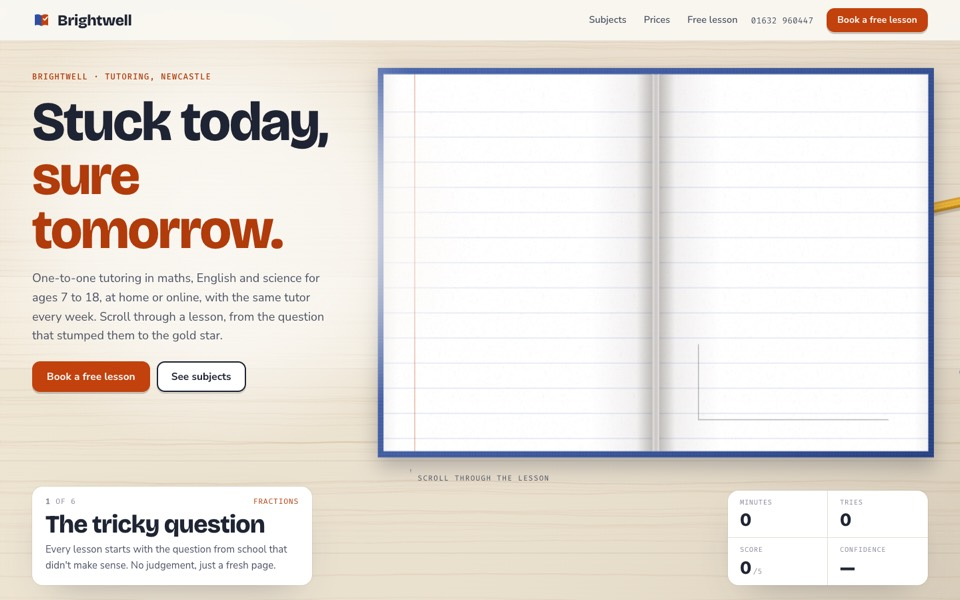
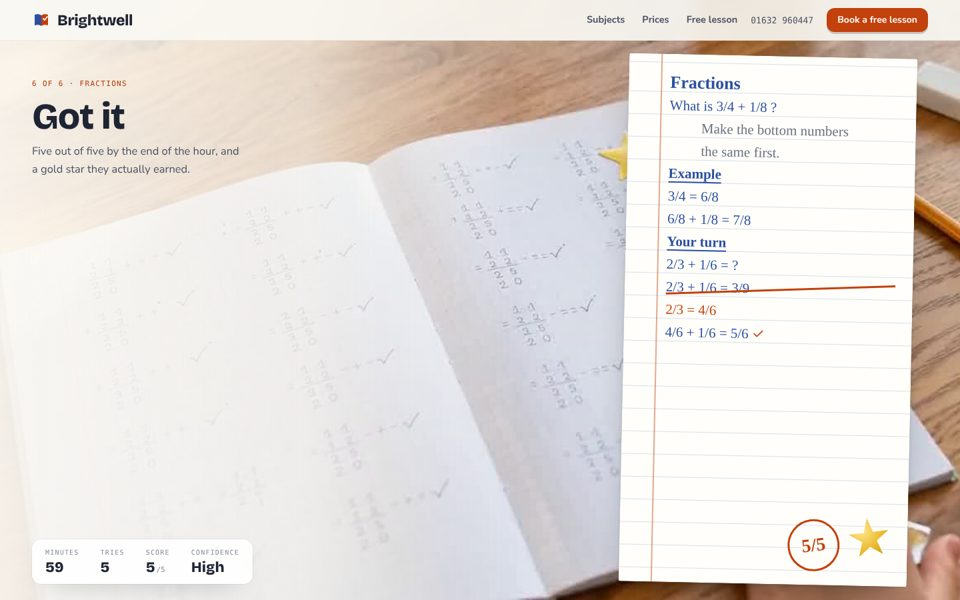
Primer redesigned v5: the real lesson beside a page of the exercise book written as it goes, the slip crossed out in red, the mark and a gold star
Claude-Session: https://claude.ai/code/session_0133g3z4wqTvWj4LLKkZ92ba

diff --git a/design-packages/design/primer/template.html b/design-packages/design/primer/template.html
@@ -1,12 +1,13 @@
 <!doctype html><html><head><meta charset=utf8><meta name=viewport content="width=device-width,initial-scale=1,viewport-fit=cover"><style>:root{color-scheme:light;box-sizing:border-box;padding-top:env(safe-area-inset-top,0px);padding-bottom:env(safe-area-inset-bottom,0px)}html{scroll-padding-top:env(safe-area-inset-top,0px)}body{margin:0;padding:0;font:14px -apple-system,BlinkMacSystemFont,sans-serif;background:#fff;color:#000}img{max-width:100%}[hidden]:not([hidden=until-found i]){display:none!important}</style></head><body>
 <title>{{business.name}}</title>
+<meta name="description" content="{{hero.lede|attr}}">
 <link rel="preconnect" href="https://fonts.googleapis.com">
 <link rel="preconnect" href="https://fonts.gstatic.com" crossorigin>
 <link href="https://fonts.googleapis.com/css2?family=Bricolage+Grotesque:opsz,wght@12..96,600;12..96,800&family=Nunito+Sans:opsz,wght@6..12,400;6..12,600;6..12,700&family=Kalam:wght@400;700&family=Fira+Code:wght@400;500&display=swap" rel="stylesheet">
 <style>
-/* Layout: a tutor or small school. One pinned exercise book where a topic is learnt as you scroll (the question that
-   stumped them, the idea drawn out, a worked example, their own try with a slip, the fix, then the mark and a gold
-   star), with a progress chart filling; then what a parent needs: subjects and levels, a price for lessons, and a free
+/* Layout: a tutor or small school. The real lesson plays as you scroll (the tutor's own video or photos) beside a
+   page of the exercise book that gets written as it goes: the question, the idea in pencil, the worked example, their
+   try with its slip crossed out in red pen, the fix, then the mark and a gold star; then what a parent needs: subjects and levels, a price for lessons, and a free
    first lesson to book. */
 :root{
   color-scheme:light;
@@ -58,46 +59,74 @@ p{margin:0}
 @media (max-width:980px){.nav ul{display:none}.nav .call{margin-left:auto}}
 @media (max-width:560px){.nav .call{display:none}.nav .btn{margin-left:auto}.brand{font-size:21px}}
 
-/* hero: the exercise book */
+/* hero: the real lesson, and a page of the exercise book written as it goes */
 .hero{position:relative;height:560vh}
 .stage{position:sticky;top:0;height:100vh;height:100svh;overflow:hidden;background:var(--paper)}
-#book{position:absolute;inset:0;width:100%;height:100%;display:block}
-.hero-copy{position:absolute;left:var(--gut);top:calc(env(safe-area-inset-top,0px) + 108px);max-width:520px;z-index:3;display:grid;gap:18px;will-change:transform,opacity}
-.hero-copy::before{content:"";position:absolute;z-index:-1;inset:-110px -150px -90px calc(-1 * var(--gut) - 60px);background:radial-gradient(closest-side,rgba(250,248,243,.97),rgba(250,248,243,.82) 55%,rgba(250,248,243,0));pointer-events:none}
-.hero h1{font-size:clamp(3rem,min(6.4vw,9.2vh),6.4rem)}
+.stage .poster,#film{position:absolute;inset:0;width:100%;height:100%;display:block;z-index:0}
+.stage .poster{object-fit:cover}
+.veil{position:absolute;inset:0;z-index:1;pointer-events:none;background:linear-gradient(90deg,rgba(250,248,243,.94) 0%,rgba(250,248,243,.72) 32%,rgba(250,248,243,0) 54%)}
+.hero-copy{position:absolute;left:var(--gut);top:calc(env(safe-area-inset-top,0px) + 104px);max-width:540px;z-index:3;display:grid;gap:18px;will-change:transform,opacity}
+.hero h1{font-size:clamp(2.8rem,min(5.6vw,8.8vh),5.4rem)}
 .hero h1 em{font-style:normal;display:block;color:var(--accent-text)}
-.lede{color:var(--ink-2);max-width:42ch;font-size:clamp(16px,1.3vw,18px)}
-.hero .acts{display:flex;gap:10px;flex-wrap:wrap;margin-top:6px}
-.card{position:absolute;z-index:4;left:var(--gut);bottom:calc(22px + env(safe-area-inset-bottom,0px));width:min(420px,calc(100% - 2*var(--gut)));padding:16px 20px 18px;background:var(--sheet);border-radius:16px;box-shadow:0 22px 56px -30px rgba(30,36,51,.4),0 0 0 1px rgba(30,36,51,.06)}
-.card .row{display:flex;justify-content:space-between;gap:10px;font:400 11.5px/1.2 var(--f-mono);letter-spacing:.06em;text-transform:uppercase;color:var(--muted)}
-.card .mark{color:var(--accent-text)}
-.card h3{font-size:clamp(28px,2.6vw,38px);margin-top:10px}
-.card p{color:var(--ink-2);font-size:15px;margin-top:6px;min-height:3.2em}
-.report{position:absolute;z-index:4;right:var(--gut);bottom:calc(22px + env(safe-area-inset-bottom,0px));display:grid;grid-template-columns:repeat(2,minmax(0,1fr));margin:0;min-width:300px;border-radius:16px;background:var(--sheet);box-shadow:0 22px 56px -30px rgba(30,36,51,.4),0 0 0 1px rgba(30,36,51,.06);overflow:hidden}
-.report div{padding:12px 18px;border-right:1px solid var(--line);border-bottom:1px solid var(--line);min-width:0}
-.report div:nth-child(2n){border-right:0}
-.report div:nth-child(n+3){border-bottom:0}
-.report dt{font:400 10.5px/1.2 var(--f-mono);letter-spacing:.06em;text-transform:uppercase;color:var(--muted)}
-.report dd{margin:6px 0 0;font:800 28px/1 var(--f-display);letter-spacing:-.02em;font-variant-numeric:tabular-nums;white-space:nowrap}
-.report dd small{font:400 11px var(--f-mono);color:var(--muted);margin-left:3px;letter-spacing:0}
-.hint{position:absolute;z-index:4;left:50%;bottom:calc(170px + env(safe-area-inset-bottom,0px));transform:translateX(-50%);font:400 11px var(--f-mono);letter-spacing:.12em;text-transform:uppercase;color:var(--ink-2);display:flex;align-items:center;gap:10px;pointer-events:none;white-space:nowrap}
-.hint i{display:block;width:1px;height:26px;background:linear-gradient(var(--ink-2),transparent);animation:cue 1.6s ease-in-out infinite}
+.lede{color:var(--ink-2);max-width:44ch;font-size:clamp(16px,1.3vw,18px)}
+.hero .acts{display:flex;gap:10px;flex-wrap:wrap;margin-top:4px}
+.split .w{display:inline-block;overflow:hidden;vertical-align:top;padding-bottom:.22em;margin-bottom:-.14em}
+.split .w{padding-right:.1em;margin-right:-.1em}
+.split .w>i{display:inline-block;font-style:normal;animation:wrise .9s cubic-bezier(.16,1,.3,1) both}
+@keyframes wrise{from{transform:translateY(108%)}}
+.hint{position:absolute;z-index:4;left:var(--gut);bottom:calc(30px + env(safe-area-inset-bottom,0px));font:400 11px var(--f-mono);letter-spacing:.12em;text-transform:uppercase;color:var(--muted);display:flex;align-items:center;gap:10px;pointer-events:none}
+.hint i{display:block;width:1px;height:22px;background:linear-gradient(var(--muted),transparent);animation:cue 1.6s ease-in-out infinite}
 @keyframes cue{0%{transform:scaleY(.2);transform-origin:top}50%{transform:scaleY(1);transform-origin:top}100%{transform:scaleY(.2);transform-origin:bottom}}
-/* short laptop screens: a little less type so the copy clears the card */
-@media (min-width:821px) and (max-height:780px){.hero-copy{gap:14px}.hero h1{font-size:clamp(3rem,min(6.4vw,8.8vh),6.4rem)}.lede{font-size:15px}}
+.now{position:absolute;z-index:3;left:var(--gut);top:calc(env(safe-area-inset-top,0px) + 112px);max-width:min(400px,32vw);opacity:0;transition:opacity .45s}
+.now.on{opacity:1}
+.now .k{font:500 11px/1.2 var(--f-mono);letter-spacing:.12em;text-transform:uppercase;color:var(--accent-text)}
+.now h3{font:800 clamp(34px,3.8vw,56px)/1 var(--f-display);letter-spacing:-.02em;margin-top:10px}
+.now p{color:var(--ink-2);margin-top:12px;font-size:16.5px;max-width:32ch;min-height:4.7em}
+/* the page: ruled lines, a red margin, each line written in as the lesson reaches it */
+.page{position:absolute;z-index:3;right:clamp(28px,5vw,80px);top:calc(env(safe-area-inset-top,0px) + 84px);bottom:calc(24px + env(safe-area-inset-bottom,0px));width:clamp(340px,30vw,440px);padding:26px 26px 20px 62px;background:#FFFEFA repeating-linear-gradient(180deg,transparent 0 33px,rgba(45,79,163,.18) 33px 34px) 0 23px;border-radius:3px;box-shadow:0 30px 60px -30px rgba(0,0,0,.55),0 2px 6px rgba(0,0,0,.08);transform:rotate(1.2deg);opacity:0;transition:opacity .5s;overflow:hidden}
+.page.on{opacity:1}
+.page::before{content:"";position:absolute;left:48px;top:0;bottom:0;width:1.5px;background:rgba(194,65,12,.45)}
+.pl{position:relative;font:400 21px/34px var(--f-hand);color:var(--blue);white-space:nowrap;clip-path:inset(0 calc((1 - var(--w,0)) * 100%) 0 0)}
+.pl.pen{color:var(--blue)}
+.pl.pencil{color:#6B7180}
+.pl.red{color:var(--red)}
+.pl.plh{font-weight:700;text-decoration:underline;text-underline-offset:5px}
+.pl.hd{font-size:26px;font-weight:700}
+.pl.wrap{white-space:normal;line-height:34px}
+.pl .x{position:absolute;left:-4px;top:50%;height:2.5px;width:calc(var(--x,0) * (100% + 8px));background:var(--red);transform:rotate(-3deg);border-radius:2px}
+.pl.tick::after{content:" ✓";color:var(--red)}
+.mk{position:absolute;right:26px;bottom:26px;display:flex;align-items:center;gap:14px;opacity:0;transform:scale(1.6) rotate(-8deg);transition:opacity .2s,transform .4s cubic-bezier(.3,1.6,.5,1)}
+.mk.on{opacity:1;transform:rotate(-8deg)}
+.mk b{display:grid;place-items:center;width:78px;height:78px;border-radius:50%;border:3px solid var(--red);color:var(--red);font:700 28px/1 var(--f-hand)}
+.mk i{width:62px;height:62px;background:radial-gradient(circle at 35% 30%,#FFE58A,#E8B526 55%,#B9860F);clip-path:polygon(50% 0,61% 35%,98% 35%,68% 57%,79% 91%,50% 70%,21% 91%,32% 57%,2% 35%,39% 35%);filter:drop-shadow(0 4px 6px rgba(0,0,0,.3))}
+.report{position:absolute;z-index:4;left:var(--gut);bottom:calc(24px + env(safe-area-inset-bottom,0px));display:flex;gap:4px;margin:0;padding:6px;border-radius:14px;background:rgba(255,255,255,.9);backdrop-filter:blur(10px);-webkit-backdrop-filter:blur(10px);box-shadow:0 0 0 1px rgba(30,36,51,.06),0 18px 40px -26px rgba(30,36,51,.5);opacity:0;transition:opacity .45s}
+.report.on{opacity:1}
+.report div{padding:8px 14px}
+.report dt{font:400 10px/1.2 var(--f-mono);letter-spacing:.12em;text-transform:uppercase;color:var(--muted)}
+.report dd{margin:5px 0 0;font:800 22px/1 var(--f-display);font-variant-numeric:tabular-nums;white-space:nowrap}
+.report dd small{font:400 11px var(--f-mono);color:var(--muted);margin-left:2px}
+@media (max-width:1100px) and (min-width:821px){.now{max-width:calc(100% - 2*var(--gut) - 360px)}}
 @media (max-width:820px){
-  .hero-copy{top:calc(env(safe-area-inset-top,0px) + 86px);max-width:none;right:var(--gut);gap:14px}
+  .veil{background:linear-gradient(180deg,rgba(250,248,243,.94) 0%,rgba(250,248,243,.66) 34%,rgba(250,248,243,0) 50%)}
+  .hero-copy{top:calc(env(safe-area-inset-top,0px) + 84px);max-width:none;right:var(--gut);gap:14px}
   .hero .acts{display:none}
-  .report{left:var(--gut);right:var(--gut);min-width:0;grid-template-columns:repeat(3,minmax(0,.85fr)) minmax(0,1.45fr);bottom:calc(204px + env(safe-area-inset-bottom,0px))}
-  .report div{padding:9px 10px;border-bottom:0}
-  .report div:nth-child(2n){border-right:1px solid var(--line)}
-  .report div:last-child{border-right:0}
-  .report dt{font-size:8.5px;letter-spacing:.03em}
-  .report dd{font-size:clamp(17px,5vw,23px);white-space:normal;overflow-wrap:anywhere;line-height:1.05}
-  .report dd small{display:none}
-  .card{bottom:calc(14px + env(safe-area-inset-bottom,0px));padding:14px 18px}
-  .card p{font-size:14px;min-height:4.4em}
   .hint{display:none}
+  .now{top:calc(env(safe-area-inset-top,0px) + 72px);right:var(--gut);max-width:none}
+  .now h3{font-size:28px}
+  .now p{font-size:14px;min-height:3em;margin-top:6px}
+  .page{left:12px;right:12px;width:auto;top:auto;height:50%;bottom:calc(84px + env(safe-area-inset-bottom,0px));padding:16px 16px 12px 46px;background-size:auto;background-position:0 15px;transform:rotate(.6deg)}
+  .page::before{left:36px}
+  .pl{font-size:16px;line-height:28px}
+  .page{background-image:repeating-linear-gradient(180deg,transparent 0 27px,rgba(45,79,163,.18) 27px 28px)}
+  .pl.hd{font-size:19px}
+  .pl.wrap{line-height:28px}
+  .mk{right:14px;bottom:14px;gap:8px}
+  .mk b{width:54px;height:54px;font-size:20px}
+  .mk i{width:44px;height:44px}
+  .report{left:10px;right:10px;justify-content:space-between;bottom:calc(10px + env(safe-area-inset-bottom,0px))}
+  .report div{padding:6px 8px}
+  .report dt{font-size:9px;letter-spacing:.04em}
+  .report dd{font-size:18px}
 }
 
 /* sections */
@@ -181,9 +210,11 @@ footer{background:var(--ink);color:var(--paper);padding:clamp(70px,9vw,120px) va
 </nav>
 
 <main>
-<section class="hero" id="top" aria-label="A lesson in an exercise book, scroll to work through it">
+<section class="hero" id="top" aria-label="A lesson worked through in an exercise book; scroll to work through it">
   <div class="stage" id="stage">
-    <canvas id="book" aria-hidden="true"></canvas>
+{{#if $.film.poster}}    <img class="poster" src="{{$.film.poster|attr}}" alt="" aria-hidden="true">
+{{/if}}    <canvas id="film" role="img" aria-label="A lesson at {{brand.name|attr}}: working through a question in an exercise book"></canvas>
+    <div class="veil" aria-hidden="true"></div>
     <div class="hero-copy" id="heroCopy">
       <p class="eyebrow">{{hero.eyebrow}}</p>
       <h1>{{hero.title}} <em>{{hero.titleEm}}</em></h1>
@@ -191,17 +222,14 @@ footer{background:var(--ink);color:var(--paper);padding:clamp(70px,9vw,120px) va
       <div class="acts"><a class="btn" href="#trial">{{hero.cta}}</a><a class="btn ghost" href="#subjects">{{hero.cta2}}</a></div>
     </div>
     <div class="hint" id="hint"><i></i>{{hero.hint}}</div>
+    <div class="now" id="now" aria-live="polite"><span class="k"><span id="gNum">1</span> of 6 · <span id="gTopic">{{lesson.topic}}</span></span><h3 id="gTitle">{{stages.0.n}}</h3><p id="gText">{{stages.0.c}}</p></div>
+    <div class="page" id="page" aria-hidden="true"><div id="lines"></div><div class="mk" id="mk"><b>{{lesson.score}}/{{lesson.of}}</b><i></i></div></div>
     <dl class="report" id="report" aria-live="off">
       <div><dt>{{report.labels.0}}</dt><dd id="kMin">0</dd></div>
       <div><dt>{{report.labels.1}}</dt><dd id="kTries">0</dd></div>
       <div><dt>{{report.labels.2}}</dt><dd id="kScore">0<small>/{{lesson.of}}</small></dd></div>
       <div><dt>{{report.labels.3}}</dt><dd id="kConf">—</dd></div>
     </dl>
-    <div class="card" id="card" aria-live="polite">
-      <div class="row"><span><b id="gNum">1</b> of 6</span><span class="mark" id="gTopic">{{lesson.topic}}</span></div>
-      <h3 id="gTitle">{{stages.0.n}}</h3>
-      <p id="gText">{{stages.0.c}}</p>
-    </div>
   </div>
 </section>
 
@@ -298,144 +326,53 @@ const STAGES=[
 const LESSON={{$.lessonJs|raw}};
 const INK={pen:'#2D4FA3',red:{{$.red|js}},pencil:'#6B7180'};
 
-/* ============ GEOMETRY ============ */
-// two pages, each .95 by 1.2: side by side on a wide screen, one above the other on a phone (a pad bound at the top)
-const PW=.95, PH=1.2;
-const cv=$('#book'), ctx=cv.getContext('2d');
-let W=0,H=0,DPR=1,mobile=false,LA=null,LB=null,PAGE=null;
-function fit(ax,ay,up){const w=ax[1]-ax[0], h=ay[1]-ay[0];const bw=up?PW+.04:PW*2+.04, bh=up?PH*2+.04:PH+.04;const s=Math.min(w/bw,h/bh);return{s,x:(ax[0]+ax[1])/2,y:(ay[0]+ay[1])/2};}
-function layout(){W=cv.clientWidth;H=cv.clientHeight;DPR=Math.min(devicePixelRatio||1,TOUCH?1.5:2);cv.width=Math.round(W*DPR);cv.height=Math.round(H*DPR);mobile=W<820;
-  const top=Math.max(70,H*.1), rp=$('#report').getBoundingClientRect(), cd=$('#card').getBoundingClientRect(), stg=$('#stage').getBoundingClientRect();
-  // on a phone: one page fills the screen and the view moves between them; the whole pad for the mark
-  if(mobile){const lo=rp.top-stg.top-10;LA=LB=fit([W*.04,W*.96],[top,lo],true);PAGE={s:Math.min(W*.94/PW,(lo-top)/(PH*1.02)),x:W/2,y:(top+lo)/2,top:top-14,lo:lo+4};}
-  else{const cr=copy.offsetLeft+copy.offsetWidth, cb=copy.offsetTop+copy.offsetHeight, low=Math.min(rp.top,cd.top)-stg.top;
-    const side=fit([cr+20,W*.97],[H*.1,low-12]), under=fit([W*.05,W*.95],[cb+20,low-12]);
-    LA=side.s>=under.s*.8?side:under;LB=fit([W*.08,W*.92],[top,low-14]);}}
+/* ============ THE FILM ============ */
+const hero=$('#top'), copy=$('#heroCopy'), hint=$('#hint'), now=$('#now'), page=$('#page'), report=$('#report'), mk=$('#mk');
+page.style.setProperty('--red',INK.red);
+const STILL=/[?&]still\b/.test(location.search), FLAT=RM||STILL;
+if(FLAT)document.documentElement.classList.add('flat');
+{{$.film.runtime|raw}}
+const film=SRFilm($('#film'),{{$.film.json|raw}},{flat:FLAT,fx:.6,fy:.5});
+let inFrame=false;try{inFrame=window.self!==window.top}catch(e){inFrame=true}
+let AUTO=inFrame&&scrollY<1&&!FLAT;
+if(AUTO)addEventListener('scroll',()=>{if(AUTO&&scrollY>=1){AUTO=false;film.poke()}},{passive:true});
 
-/* ============ DRAWING ============ */
-// handwriting: text at a real size, revealed left to right like a pen writing it; returns the pen's position
-function write(c,str,x,y,size,col,k,font){if(k<=0)return null;c.save();c.translate(x,y);c.scale(size/24,size/24);c.font=`${font||400} 24px "Kalam",cursive`;c.textBaseline='alphabetic';const w=c.measureText(str).width;
-  c.beginPath();c.rect(-4,-40,w*k+4,60);c.clip();c.fillStyle=col;c.fillText(str,0,0);c.restore();return[x+w*k*size/24,y-size*.2,w*size/24];}
-function textW(c,str,size){c.save();c.font=`400 24px "Kalam",cursive`;const w=c.measureText(str).width*size/24;c.restore();return w;}
-function rngQ(seed){let x=seed>>>0||1;return()=>{x^=x<<13;x^=x>>>17;x^=x<<5;return((x>>>0)%10000)/10000;};}
-const TX={};
-function tx(key,w,h,draw){if(TX[key])return TX[key];const t=document.createElement('canvas');t.width=w;t.height=h;draw(t.getContext('2d'),w,h,rngQ(key.length*13+5));return TX[key]=t;}
-function lay(c,img,x,y,w,h,sc,a){const p=c.createPattern(img,'repeat');if(!p||!p.setTransform)return;p.setTransform(new DOMMatrix().scale(sc));c.save();c.globalAlpha*=a==null?1:a;c.fillStyle=p;c.fillRect(x,y,w,h);c.restore();}
-// paper: short fibres and a faint tooth
-const FIBRE=()=>tx('fibre',200,200,(g,w,h,r)=>{for(let i=0;i<900;i++){g.strokeStyle=r()<.5?`rgba(120,110,90,${.04+r()*.06})`:`rgba(255,255,255,${.3})`;g.lineWidth=.5;g.beginPath();const x=r()*w,y=r()*h,a=r()*6.28,L=2+r()*6;g.moveTo(x,y);g.quadraticCurveTo(x+Math.cos(a+.5)*L*.5,y+Math.sin(a+.5)*L*.5,x+Math.cos(a)*L,y+Math.sin(a)*L);g.stroke();}for(let i=0;i<1500;i++){g.fillStyle=`rgba(100,90,70,${r()*.05})`;g.fillRect(r()*w,r()*h,1,1);}});
-// book cloth: a linen weave
-const CLOTH=()=>tx('cloth',64,64,(g,w,h,r)=>{for(let y=0;y<h;y+=2){g.fillStyle=`rgba(255,255,255,${.03+r()*.05})`;g.fillRect(0,y,w,1);}for(let x=0;x<w;x+=2){g.fillStyle=`rgba(0,0,0,${.04+r()*.06})`;g.fillRect(x,0,1,h);}});
-let DESK=null;
-function buildDesk(){const d=document.createElement('canvas');d.width=cv.width;d.height=cv.height;const g=d.getContext('2d');g.setTransform(DPR,0,0,DPR,0,0);const r=rngQ(7);
-  g.fillStyle='#EFE6D6';g.fillRect(0,0,W,H);const bh=Math.max(60,Math.min(W,H)/6.5);
-  for(let row=0;row*bh<H+bh;row++){const v=r();g.fillStyle=v<.5?`rgba(150,110,60,${.03+v*.06})`:`rgba(255,250,240,${(v-.5)*.2})`;g.fillRect(0,row*bh,W,bh);
-    for(let k=0;k<16;k++){g.strokeStyle=`rgba(160,120,70,${.05+r()*.08})`;g.lineWidth=.6+r();g.beginPath();const yy=row*bh+3+r()*(bh-6);g.moveTo(0,yy);for(let t=0;t<=W;t+=18)g.lineTo(t,yy+Math.sin(t/(60+k*9)+k)*2.2+Math.sin(t/17)*.4);g.stroke();}
-    g.fillStyle='rgba(110,80,45,.16)';g.fillRect(0,row*bh+bh-1.2,W,1.2);g.fillStyle='rgba(255,255,255,.25)';g.fillRect(0,row*bh,W,.8);}
-  const lg=g.createLinearGradient(0,0,W,H);lg.addColorStop(0,'rgba(255,248,230,.25)');lg.addColorStop(.5,'rgba(255,248,230,0)');lg.addColorStop(1,'rgba(80,60,35,.12)');g.fillStyle=lg;g.fillRect(0,0,W,H);DESK=d;}
-// a pencil and an eraser on the desk beside the book
-function deskThings(c){if(mobile)return;c.save();c.translate(PW+.16,-.2);c.rotate(1.38);
-  c.fillStyle='rgba(40,30,20,.18)';c.fillRect(-.014+.01,-.42+.012,.03,.86);
-  const b=c.createLinearGradient(-.016,0,.016,0);b.addColorStop(0,'#C98E1E');b.addColorStop(.35,'#F4C04A');b.addColorStop(.36,'#E3A92E');b.addColorStop(.7,'#F0BA40');b.addColorStop(.71,'#C8901E');b.addColorStop(1,'#A87412');c.fillStyle=b;c.fillRect(-.016,-.34,.032,.68);
-  c.fillStyle='#E8C9A0';c.beginPath();c.moveTo(-.016,.34);c.lineTo(.016,.34);c.lineTo(.002,.42);c.lineTo(-.002,.42);c.closePath();c.fill();c.fillStyle='#3A3A3A';c.beginPath();c.moveTo(-.005,.395);c.lineTo(.005,.395);c.lineTo(.001,.425);c.lineTo(-.001,.425);c.closePath();c.fill();
-  const f=c.createLinearGradient(-.017,0,.017,0);f.addColorStop(0,'#8E959C');f.addColorStop(.45,'#E8ECEF');f.addColorStop(1,'#7E858C');c.fillStyle=f;c.fillRect(-.017,-.4,.034,.06);c.fillStyle='rgba(0,0,0,.2)';for(let i=0;i<3;i++)c.fillRect(-.017,-.39+i*.02,.034,.003);
-  c.fillStyle='#E88B8B';c.beginPath();c.roundRect(-.016,-.46,.032,.065,.01);c.fill();c.fillStyle='rgba(255,255,255,.25)';c.fillRect(-.01,-.455,.006,.05);c.restore();
-  c.save();c.translate(PW+.2,.36);c.rotate(-.25);c.fillStyle='rgba(40,30,20,.2)';c.beginPath();c.roundRect(-.075+.01,-.04+.014,.15,.08,.012);c.fill();const e=c.createLinearGradient(0,-.04,0,.04);e.addColorStop(0,'#F7F3EE');e.addColorStop(1,'#DDD6CC');c.fillStyle=e;c.beginPath();c.roundRect(-.075,-.04,.15,.08,.012);c.fill();c.fillStyle='#3E64B8';c.beginPath();c.roundRect(-.075,-.04,.06,.08,[.012,0,0,.012]);c.fill();c.fillStyle='rgba(255,255,255,.3)';c.fillRect(-.07,-.035,.13,.008);c.restore();}
-function page(c,x,y,left){c.fillStyle='#FFFFFF';c.fillRect(x,y,PW,PH);lay(c,FIBRE(),x,y,PW,PH,.0016);
-  {const g=left?c.createLinearGradient(x+PW,0,x+PW-.22,0):c.createLinearGradient(x,0,x+.22,0);g.addColorStop(0,'rgba(60,50,40,.2)');g.addColorStop(.25,'rgba(60,50,40,.07)');g.addColorStop(1,'rgba(60,50,40,0)');c.fillStyle=g;if(left)c.fillRect(x+PW-.22,y,.22,PH);else c.fillRect(x,y,.22,PH);
-   const o=left?c.createLinearGradient(x,0,x+.05,0):c.createLinearGradient(x+PW,0,x+PW-.05,0);o.addColorStop(0,'rgba(60,50,40,.06)');o.addColorStop(1,'rgba(60,50,40,0)');c.fillStyle=o;if(left)c.fillRect(x,y,.05,PH);else c.fillRect(x+PW-.05,y,.05,PH);}
-  c.strokeStyle='rgba(45,79,163,.16)';c.lineWidth=.003;for(let ly=y+.12;ly<y+PH-.02;ly+=.08){c.beginPath();c.moveTo(x,ly);c.lineTo(x+PW,ly);c.stroke();}
-  if(left){c.strokeStyle='rgba(194,65,12,.35)';c.lineWidth=.004;c.beginPath();c.moveTo(x+.11,y);c.lineTo(x+.11,y+PH);c.stroke();}
-  else{c.fillStyle='rgba(45,79,163,.05)';for(let gx=x+.04;gx<x+PW;gx+=.04)for(let gy=y+.04;gy<y+PH;gy+=.04){}}}
-function pen(c,p,col,on){if(!p||!on)return;c.save();c.translate(p[0],p[1]);c.rotate(.6);c.fillStyle='rgba(30,25,20,.1)';c.save();c.translate(.022,.016);c.beginPath();c.roundRect(-.012,-.36,.024,.33,.012);c.fill();c.restore();
-  const tg=c.createLinearGradient(-.012,0,.012,0);tg.addColorStop(0,'#8E959C');tg.addColorStop(.45,'#EEF1F3');tg.addColorStop(1,'#7A8188');c.fillStyle=tg;c.beginPath();c.moveTo(-.002,0);c.lineTo(.002,0);c.lineTo(.012,-.035);c.lineTo(-.012,-.035);c.closePath();c.fill();c.fillStyle=col;c.beginPath();c.arc(0,-.001,.0025,0,7);c.fill();
-  const bg=c.createLinearGradient(-.016,0,.016,0);bg.addColorStop(0,'#141414');bg.addColorStop(.4,'#4A4A4E');bg.addColorStop(.55,'#2A2A2C');bg.addColorStop(1,'#0E0E0E');c.fillStyle=bg;c.beginPath();c.roundRect(-.016,-.32,.032,.29,.006);c.fill();
-  const cg=c.createLinearGradient(-.018,0,.018,0);cg.addColorStop(0,shade2(col,-.35));cg.addColorStop(.4,shade2(col,.25));cg.addColorStop(1,shade2(col,-.4));c.fillStyle=cg;c.beginPath();c.roundRect(-.018,-.37,.036,.07,.008);c.fill();
-  c.fillStyle='#C9CED4';c.fillRect(.012,-.36,.006,.11);c.fillStyle='rgba(255,255,255,.6)';c.fillRect(.013,-.36,.002,.11);c.restore();}
-function shade2(hex,k){const n=parseInt(hex.slice(1),16);const f=v=>Math.round(k>0?v+(255-v)*k:v*(1+k));return`rgb(${f(n>>16&255)},${f(n>>8&255)},${f(n&255)})`;}
-function sticky(c,x,y,k,time){if(k<=0)return;c.save();c.translate(x+PW/2,y+.27);c.rotate(-.04);c.translate(0,-(1-sm(k))*.2);c.globalAlpha*=Math.min(1,k*2);
-  {const m=c.getTransform(), sc=Math.hypot(m.a,m.b);c.save();c.shadowColor='rgba(60,50,20,.28)';c.shadowBlur=.025*sc;c.shadowOffsetY=.012*sc;c.shadowOffsetX=.006*sc;c.fillStyle='#FCE68A';c.beginPath();c.moveTo(-.38,-.2);c.lineTo(.36,-.2);c.lineTo(.36,.16);c.quadraticCurveTo(0,.185,-.38,.16);c.closePath();c.fill();c.restore();}
-  {const sg=c.createLinearGradient(0,-.2,0,.18);sg.addColorStop(0,'#F8DF7A');sg.addColorStop(.15,'#FCE68A');sg.addColorStop(.8,'#FDEB98');sg.addColorStop(1,'#F0D670');c.fillStyle=sg;}c.beginPath();c.moveTo(-.38,-.2);c.lineTo(.36,-.2);c.lineTo(.36,.16);c.quadraticCurveTo(0,.185,-.38,.16);c.closePath();c.fill();lay(c,FIBRE(),-.38,-.2,.74,.38,.0016,.6);
-  c.fillStyle='rgba(160,130,40,.12)';c.fillRect(-.38,-.2,.74,.05);c.fillStyle='rgba(255,255,255,.25)';c.beginPath();c.moveTo(-.38,.12);c.quadraticCurveTo(0,.15,.36,.12);c.lineTo(.36,.16);c.quadraticCurveTo(0,.185,-.38,.16);c.closePath();c.fill();
-  const words=LESSON.idea.split(' '), lines=[];let line='';words.forEach(w=>{const t=line?line+' '+w:w;if(textW(c,t,.058)>.64&&line){lines.push(line);line=w;}else line=t;});if(line)lines.push(line);
-  lines.slice(0,3).forEach((l,i)=>write(c,l,-.34,-.08+i*.085,.058,'#2A2A2A',sm(seg(k,.3+i*.2,.6+i*.2)),700));c.restore();}
-function hatch(c,x,y,w,h,rgb,seed){if(w<=0||h<=0)return;const r=rngQ(seed);c.save();c.beginPath();c.rect(x,y,w,h);c.clip();c.fillStyle=`rgba(${rgb},.12)`;c.fillRect(x,y,w,h);c.lineCap='round';
-  for(let t=-h;t<w;t+=.0075){c.strokeStyle=`rgba(${rgb},${.4+r()*.3})`;c.lineWidth=.0028+r()*.002;c.beginPath();c.moveTo(x+t+r()*.003,y+h+.004);c.lineTo(x+t+h+r()*.003,y-.004);c.stroke();}c.restore();}
-function sketch(c,x,y,k){if(k<=0||LESSON.sketch==='none')return;const cx=x+PW/2, cy=y+.66;c.save();c.strokeStyle=INK.pencil;c.lineWidth=.005;c.lineCap='round';
-  if(LESSON.sketch==='fractions'){[[4,3,-.07],[8,7,.07]].forEach(([n,f,dy],r)=>{const w=.62, x0=cx-w/2, yy=cy+dy-.03;const kk=sm(seg(k,r*.4,r*.4+.5));if(kk<=0)return;c.globalAlpha=kk;
-      for(let i=0;i<n;i++){if(i<f)hatch(c,x0+i*w/n+.004,yy+.004,w/n-.008,.062,r?'194,65,12':'45,79,163',r*31+i);c.strokeRect(x0+i*w/n,yy,w/n,.07);}});c.globalAlpha=1;}
-  if(LESSON.sketch==='triangle'){const kk=sm(k);c.beginPath();c.moveTo(cx-.22,cy+.12);c.lineTo(cx-.22+.44*kk,cy+.12);c.stroke();if(kk>.4){c.beginPath();c.moveTo(cx-.22,cy+.12);c.lineTo(cx-.22,cy+.12-.28*sm(seg(kk,.4,.8)));c.stroke();}if(kk>.7){c.beginPath();c.moveTo(cx-.22,cy-.16);c.lineTo(cx+.22,cy+.12);c.stroke();c.strokeRect(cx-.22,cy+.08,.04,.04);
-      c.fillStyle=INK.pencil;write(c,'a',cx-.28,cy,.05,INK.pencil,1);write(c,'b',cx-.02,cy+.18,.05,INK.pencil,1);write(c,'c',cx+.02,cy-.04,.05,INK.red,1);}}
-  if(LESSON.sketch==='wave'){c.beginPath();for(let i=0;i<=60*sm(k);i++){const t=i/60, xx=cx-.3+t*.6, yy=cy-Math.sin(t*Math.PI*4)*.09;i?c.lineTo(xx,yy):c.moveTo(xx,yy);}c.stroke();c.strokeStyle='rgba(107,113,128,.4)';c.beginPath();c.moveTo(cx-.32,cy);c.lineTo(cx+.32,cy);c.stroke();}
-  c.restore();}
-function chart(c,x,y,k){const n=LESSON.tries, x0=x+.14, base=y+PH-.1, w=PW-.28, bw=w/n*.6;c.save();c.strokeStyle='rgba(30,36,51,.3)';c.lineWidth=.004;c.beginPath();c.moveTo(x0,base-.24);c.lineTo(x0,base);c.lineTo(x0+w,base);c.stroke();
-  for(let i=0;i<n;i++){const kk=sm(seg(k,i/n,(i+1)/n));if(kk<=0)continue;const h=(.06+.18*(i+1)/n)*kk;hatch(c,x0+w/n*i+w/n*.2,base-h,bw,h,i===Math.floor(n/2)-1&&n>2?'194,65,12':'45,79,163',i*17+3);c.strokeStyle=i===Math.floor(n/2)-1&&n>2?'rgba(194,65,12,.7)':'rgba(45,79,163,.7)';c.lineWidth=.003;c.strokeRect(x0+w/n*i+w/n*.2,base-h,bw,h);}c.restore();}
-function tick(c,x,y,k){if(k<=0)return;c.save();c.strokeStyle=INK.red;c.lineWidth=.012;c.lineCap='round';c.lineJoin='round';c.beginPath();c.moveTo(x,y);const a=sm(seg(k,0,.4));c.lineTo(x+.025*a,y+.025*a);if(k>.4){const b=sm(seg(k,.4,1));c.lineTo(x+.025+.05*b,y+.025-.07*b);}c.stroke();c.restore();}
-function star(c,x,y,k,time){if(k<=0)return;const s=sm(k)*(1+.25*Math.sin(Math.min(1,k)*Math.PI));c.save();c.translate(x,y);c.rotate(-.2+(1-k)*.8);c.scale(s,s);c.fillStyle='rgba(0,0,0,.15)';c.beginPath();for(let i=0;i<10;i++){const a=i/10*Math.PI*2-Math.PI/2, r=i%2?.04:.095;c.lineTo(Math.cos(a)*r+.006,Math.sin(a)*r+.008);}c.closePath();c.fill();
-  const g=c.createLinearGradient(-.1,-.1,.1,.1);g.addColorStop(0,'#F7D774');g.addColorStop(.5,'#E2A92C');g.addColorStop(1,'#F2C94C');c.fillStyle=g;c.beginPath();for(let i=0;i<10;i++){const a=i/10*Math.PI*2-Math.PI/2, r=i%2?.04:.095;c.lineTo(Math.cos(a)*r,Math.sin(a)*r);}c.closePath();c.fill();
-  c.fillStyle='rgba(255,255,255,.45)';c.beginPath();c.arc(-.02,-.025,.015,0,7);c.fill();c.restore();}
-function lesson(c,f,time){const L=mobile?[-PW/2,-PH-.01]:[-PW-.01,-PH/2], R=mobile?[-PW/2,.01]:[.01,-PH/2];
-  // the book: cover, pages, spine
-  deskThings(c);c.save();c.shadowColor='rgba(30,36,51,.3)';c.shadowBlur=30;c.shadowOffsetY=12;c.fillStyle=INK.pen;if(mobile)c.fillRect(-PW/2-.02,-PH-.03,PW+.04,PH*2+.06);else c.fillRect(-PW-.03,-PH/2-.02,PW*2+.06,PH+.04);c.restore();
-  {const cb=mobile?[-PW/2-.02,-PH-.03,PW+.04,PH*2+.06]:[-PW-.03,-PH/2-.02,PW*2+.06,PH+.04];lay(c,CLOTH(),cb[0],cb[1],cb[2],cb[3],.0015,1);const cg=c.createLinearGradient(cb[0],cb[1],cb[0]+cb[2],cb[1]+cb[3]);cg.addColorStop(0,'rgba(255,255,255,.12)');cg.addColorStop(1,'rgba(0,0,0,.18)');c.fillStyle=cg;c.fillRect(...cb);
-   c.fillStyle='#F2EEE6';const st=mobile?[[-PW/2+.006,-PH-.008,PW-.006,PH*2+.016]]:[[-PW-.008,-PH/2+.006,PW*2+.016,PH-.006]];st.forEach(([a,b2,w,h])=>{c.fillRect(a,b2,w,h);c.strokeStyle='rgba(120,110,95,.25)';c.lineWidth=.0015;for(let i=1;i<4;i++){c.strokeRect(a+i*.002,b2+i*.002,w-i*.004,h-i*.004);}});}
-  page(c,L[0],L[1],true);page(c,R[0],R[1],false);
-  {const g=mobile?c.createLinearGradient(0,-.07,0,.07):c.createLinearGradient(-.07,0,.07,0);g.addColorStop(0,'rgba(60,50,40,0)');g.addColorStop(.42,'rgba(60,50,40,.16)');g.addColorStop(.5,'rgba(60,50,40,.28)');g.addColorStop(.58,'rgba(60,50,40,.16)');g.addColorStop(1,'rgba(60,50,40,0)');c.fillStyle='#FFFFFF';if(mobile)c.fillRect(-PW/2,-.012,PW,.024);else c.fillRect(-.012,-PH/2,.024,PH);c.fillStyle=g;if(mobile)c.fillRect(-PW/2,-.07,PW,.14);else c.fillRect(-.07,-PH/2,.14,PH);}
-  if(mobile){c.fillStyle='#B8BCC6';for(let i=0;i<12;i++){c.beginPath();c.arc(-PW/2+.06+i*.076,0,.012,0,7);c.fill();}}
-  const [lx,ly]=L, [rx,ry]=R, X=lx+.15, line=i=>ly+.12+i*.08-.012;let tip=null,tipCol=INK.pen;
-  // the question
-  const q=sm(seg(f[0],.15,.9));write(c,LESSON.topic,X,line(0),.045,INK.pencil,sm(seg(f[0],0,.3)));const tq=write(c,LESSON.question,X,line(1),.068,INK.pen,q,700);if(q>0&&q<1)tip=tq;
-  // the idea, on the other page
-  sticky(c,rx,ry,sm(seg(f[1],0,.6)),time);sketch(c,rx,ry,sm(seg(f[1],.45,1)));
-  // the worked example
-  write(c,LESSON.exampleLabel,X,line(3),.045,INK.pencil,sm(seg(f[2],0,.2)));
-  LESSON.example.forEach((s,i)=>{const n=LESSON.example.length, k=sm(seg(f[2],.15+i*.8/n,.15+(i+1)*.8/n));const t=write(c,s,X+.04,line(4+i),.06,INK.pen,k);if(k>0&&k<1)tip=t;});
-  // their try, with a slip
-  const ty=4+LESSON.example.length+1;write(c,`${LESSON.tryLabel}: ${LESSON.tryQ}`,X,line(ty),.05,INK.pencil,sm(seg(f[3],0,.3)));
-  const wk=sm(seg(f[3],.3,.95)), tw=write(c,LESSON.wrong,X+.04,line(ty+1),.06,INK.pen,wk);if(wk>0&&wk<1)tip=tw;
-  // the fix: red circle round the slip, the correction, then the right line
-  const fc=sm(seg(f[4],0,.3));if(fc>0&&tw){const w=tw[2], cx=X+.04+w*.82, cy=line(ty+1)-.02;c.save();c.strokeStyle=INK.red;c.lineWidth=.007;c.beginPath();c.ellipse(cx,cy,w*.2+.02,.045,-.05,0,Math.PI*2*fc);c.stroke();c.restore();}
-  const fx=sm(seg(f[4],.25,.6)), tf=write(c,'→ '+LESSON.fix,X+.04,line(ty+2),.058,INK.red,fx);if(fx>0&&fx<1){tip=tf;tipCol=INK.red;}
-  const rk=sm(seg(f[4],.6,1)), tr=write(c,LESSON.right,X+.04,line(ty+3),.06,INK.pen,rk);if(rk>0&&rk<1)tip=tr;
-  // the mark: ticks, the score, a gold star
-  const mk=f[5];[line(1),line(4+LESSON.example.length-1),line(ty+3)].forEach((yy,i)=>tick(c,lx+PW-.09,yy-.04,sm(seg(mk,i*.15,i*.15+.3))));
-  const sc=sm(seg(mk,.4,.7));if(sc>0){c.save();c.globalAlpha*=sc;c.strokeStyle=INK.red;c.lineWidth=.007;c.beginPath();c.ellipse(lx+PW-.2,ly+PH-.14,.11,.07,-.1,0,7);c.stroke();c.restore();write(c,`${LESSON.score}/${LESSON.of}`,lx+PW-.27,ly+PH-.12,.062,INK.red,sc,700);}
-  star(c,rx+PW-.16,ry+.12,seg(mk,.6,.95),time);
-  chart(c,rx,ry,sm(seg(f[2]+f[3]+f[4]+f[5]*.5,0,3.5)/1));
-  if(tip)pen(c,tip,tipCol,true);}
+/* ============ THE PAGE ============ */
+// each line: what's written, in which ink, and the step (and the part of it) in which the pen writes it
+const esc=s=>String(s).replace(/[<>&"]/g,c=>({'<':'&lt;','>':'&gt;','&':'&amp;','"':'&quot;'}[c]));
+const L=[{t:LESSON.topic,c:'pen hd',s:0,a:0,b:.3},{t:LESSON.question,c:'pen',s:0,a:.3,b:.8},{t:LESSON.idea,c:'pencil wrap',s:1,a:.1,b:.8},
+  {t:LESSON.exampleLabel,c:'pen plh',s:2,a:0,b:.2},...LESSON.example.map((e,i,all)=>({t:e,c:'pen',s:2,a:.2+.7*i/all.length,b:.2+.7*(i+1)/all.length})),
+  {t:LESSON.tryLabel,c:'pen plh',s:3,a:0,b:.2},{t:LESSON.tryQ,c:'pen',s:3,a:.2,b:.5},{t:LESSON.wrong,c:'pen',s:3,a:.55,b:.9,wrong:1},
+  {t:LESSON.fix,c:'red',s:4,a:.2,b:.55},{t:LESSON.right,c:'pen',s:4,a:.55,b:.9,ok:1}];
+$('#lines').innerHTML=L.map(l=>`<div class="pl ${l.c}">${esc(l.t)}${l.wrong?'<i class="x"></i>':''}</div>`).join('');
+const lines=[...$('#lines').children];let shown=-1;
 
-/* ============ HUD ============ */
-let shown=-1;
-function hud(p,f){let idx=0;STAGES.forEach((s,i)=>{if(p>=s.w[0])idx=i;});
+/* ============ FRAME ============ */
+let cur=0;const t0=performance.now();
+function target(){const r=hero.getBoundingClientRect();return clamp(-r.top/(r.height-innerHeight));}
+const mobile=()=>innerWidth<820;
+function frame(p,time){
+  const P=FLAT?1:p, f=STAGES.map(s=>FLAT?1:seg(p,s.w[0],s.w[1]));
+  film.draw(FLAT?1:AUTO?(time/Math.max(4,film.seconds()))%1:clamp(seg(P,.02,.94)),time);
+  const k=mobile()?seg(p,.01,.05):seg(p,.06,.12);copy.style.opacity=(1-k).toFixed(3);copy.style.transform=`translateY(${(-k*24).toFixed(1)}px)`;copy.style.visibility=k>=1?'hidden':'visible';
+  hint.style.opacity=(1-seg(p,0,.03)).toFixed(3);const on=FLAT||k>=1;[now,page,report].forEach(el=>el.classList.toggle('on',on));
+  let idx=0;STAGES.forEach((s,i)=>{if(P>=s.w[0])idx=i;});
   if(idx!==shown){shown=idx;$('#gNum').textContent=idx+1;$('#gTitle').textContent=STAGES[idx].n;$('#gText').textContent=STAGES[idx].c;}
+  // the pen writes each line left to right; the slip is crossed out in red when the fix starts; the right answer gets its tick
+  lines.forEach((el,i)=>{const l=L[i];el.style.setProperty('--w',(FLAT?1:seg(f[l.s],l.a,l.b)).toFixed(3));
+    if(l.wrong){const x=el.querySelector('.x');x.style.setProperty('--x',(FLAT?1:sm(seg(f[4],0,.2))).toFixed(3));}
+    if(l.ok)el.classList.toggle('tick',f[5]>.2);});
+  mk.classList.toggle('on',f[5]>.5);
   const w=clamp((f[0]+f[1]+f[2]+f[3]+f[4]+f[5])/6);$('#kMin').textContent=Math.round(LESSON.minutes*w);
   $('#kTries').textContent=Math.round(LESSON.tries*sm(seg(f[2]+f[3]+f[4]+f[5]*.5,0,3.5)));
   $('#kScore').innerHTML=`${f[5]>.55?LESSON.score:f[4]>.6?Math.max(0,LESSON.score-1):f[2]>.5?Math.max(0,LESSON.score-3):0}<small>/${LESSON.of}</small>`;
-  $('#kConf').textContent=p>=STAGES[5].w[0]?LESSON.confidence:p>=STAGES[1].w[0]?LESSON.start:'—';}
-
-/* ============ FRAME ============ */
-const hero=$('#top'), copy=$('#heroCopy'), hint=$('#hint');
-let cur=0;const t0=performance.now();
-function frame(p,time){ctx.setTransform(1,0,0,1,0,0);if(!DESK||DESK.width!==cv.width||DESK.height!==cv.height)buildDesk();ctx.drawImage(DESK,0,0);ctx.setTransform(DPR,0,0,DPR,0,0);
-  const k=mobile?seg(p,.01,.05):seg(p,.06,.12), m=sm(mobile?k:seg(p,.05,.14));
-  const f=STAGES.map(s=>seg(p,s.w[0],s.w[1]));
-  let S=lerp(LA.s,LB.s,m), X=lerp(LA.x,LB.x,m), Y=lerp(LA.y,LB.y,m);
-  if(mobile&&PAGE){const top=-PH/2-.01, bot=PH/2+.01;let cy=lerp(top,bot,sm(seg(f[1],0,.35)));cy=lerp(cy,top,sm(seg(f[2],0,.25)));const out=sm(seg(f[5],.3,.8));
-    S=lerp(PAGE.s,LA.s,out);cy=lerp(cy,0,out);X=PAGE.x;Y=PAGE.y-cy*S;}
-  ctx.globalAlpha=mobile?.25+.75*k:1;
-  ctx.save();if(mobile&&PAGE){ctx.beginPath();ctx.rect(0,PAGE.top,W,PAGE.lo-PAGE.top);ctx.clip();}ctx.translate(X,Y);ctx.scale(S,S);lesson(ctx,f,time);ctx.restore();ctx.globalAlpha=1;
-  copy.style.opacity=(1-k).toFixed(3);copy.style.transform=`translateY(${(-k*24).toFixed(1)}px)`;copy.style.visibility=k>=1?'hidden':'visible';
-  hint.style.opacity=(1-seg(p,0,.03)).toFixed(3);hud(p,f);}
-function target(){const r=hero.getBoundingClientRect();return clamp(-r.top/(r.height-innerHeight));}
-// phones (Safari above all) give up on pages that redraw and re-make big canvases too often: draw only while the
-// hero is on screen, at a gentler rate while nothing is scrolling, and lay out again only when the canvas's size changes
+  $('#kConf').textContent=P>=STAGES[5].w[0]?LESSON.confidence:P>=STAGES[1].w[0]?LESSON.start:'—';
+}
 let gLast=-1e9,gForce=90;
-addEventListener('resize',()=>{gForce=30;});if(document.fonts&&document.fonts.ready)document.fonts.ready.then(()=>{gForce=30;});
-function gate(now){const r=cv.getBoundingClientRect();if(r.bottom<=0||r.top>=innerHeight)return true;if(gForce>0){gForce--;gLast=now;return false;}
+addEventListener('resize',()=>{gForce=30;film.size();});if(document.fonts&&document.fonts.ready)document.fonts.ready.then(()=>{gForce=30;});
+function gate(now){if(AUTO)return false;const r=$('#stage').getBoundingClientRect();if(r.bottom<=0||r.top>=innerHeight)return true;if(gForce>0){gForce--;gLast=now;return false;}
   if(Math.abs(target()-cur)>.0004){gLast=now;return false;}if(RM||now-gLast<(TOUCH?50:33))return true;gLast=now;return false;}
 function loop(now){if(gate(now)){requestAnimationFrame(loop);return;}const time=(now-t0)/1000, t=target();cur=RM?t:cur+(t-cur)*.14;if(Math.abs(t-cur)<.0004)cur=t;frame(cur,RM?0:time);requestAnimationFrame(loop);}
-layout();
-let rz;addEventListener('resize',()=>{clearTimeout(rz);rz=setTimeout(()=>{const w=cv.clientWidth,h=cv.clientHeight;if(w===gW&&h===gH)return;gW=w;gH=h;layout();},120);});
-if(document.fonts&&document.fonts.ready)document.fonts.ready.then(layout);
 requestAnimationFrame(loop);
 })();
 </script>
@@ -504,4 +441,14 @@ quote();
 })();
 </script>
 
+<script>
+/* the title arrives word by word */
+(function(){if(matchMedia('(prefers-reduced-motion: reduce)').matches||/[?&]still\b/.test(location.search))return;const h=document.querySelector('[data-split]')||document.querySelector('main h1:not(.sr)');if(!h)return;let k=0;
+ // each word in its own clipped box; a block inside the title (a second line) keeps its place and has its words split too
+ const unit=(box,el)=>{const w=document.createElement('span');w.className='w';el.style.animationDelay=(150+k++*80)+'ms';w.appendChild(el);box.appendChild(w)};
+ const split=box=>{const parts=[...box.childNodes],blk=parts.map(n=>n.nodeType===1&&getComputedStyle(n).display==='block');box.textContent='';
+  parts.forEach((n,j)=>{if(n.nodeType===3)n.textContent.split(/(\s+)/).forEach(x=>{if(!x)return;if(/^\s+$/.test(x)){box.appendChild(document.createTextNode(' '));return}const i=document.createElement('i');i.textContent=x;unit(box,i)});
+   else if(n.nodeType===1){if(blk[j]){box.appendChild(n);if(n.children.length===0)split(n);return}const i=document.createElement('i');i.appendChild(n);unit(box,i)}});};
+ split(h);h.classList.add('split')})();
+</script>
 </body></html>

diff --git a/design-packages/design/primer/hooks.js b/design-packages/design/primer/hooks.js
@@ -5,6 +5,7 @@
 'use strict';
 const { FILTERS } = require('../../engine/template');
 const js = FILTERS.js;
+const film = require('../../engine/film');
 
 const WINDOWS = ['[0,.14]', '[.14,.3]', '[.3,.48]', '[.48,.64]', '[.64,.82]', '[.82,1]'];
 const num = (n) => String(+(+n).toFixed(3)).replace(/^(-?)0\./, '$1.');
@@ -16,6 +17,7 @@ function derive(c) {
     tel: c.contact.phone.replace(/[^\d+]/g, ''),
     businessSaid: c.business.name.replace(/\s*&\s*/g, ' and '),
     brandSaid: c.brand.name.replace(/\s*&\s*/g, ' and '),
+    film: film.derive(c, null, [194, 65, 12]),
     stagesJs: c.stages.map((s, i) => ` {n:${js(s.n)},c:${js(s.c)},w:${WINDOWS[i]}}`).join(',\n'),
     lessonJs: `{topic:${js(L.topic)},question:${js(L.question)},idea:${js(L.idea)},sketch:${js(L.sketch)},\n example:[${list(L.example)}],exampleLabel:${js(L.exampleLabel)},tryLabel:${js(L.tryLabel)},tryQ:${js(L.tryQ)},wrong:${js(L.wrong)},fix:${js(L.fix)},right:${js(L.right)},\n minutes:${L.minutes},tries:${L.tries},score:${L.score},of:${L.of},confidence:${js(L.confidence)},start:${js(L.start)}}`,
     red: c.theme.accent,
